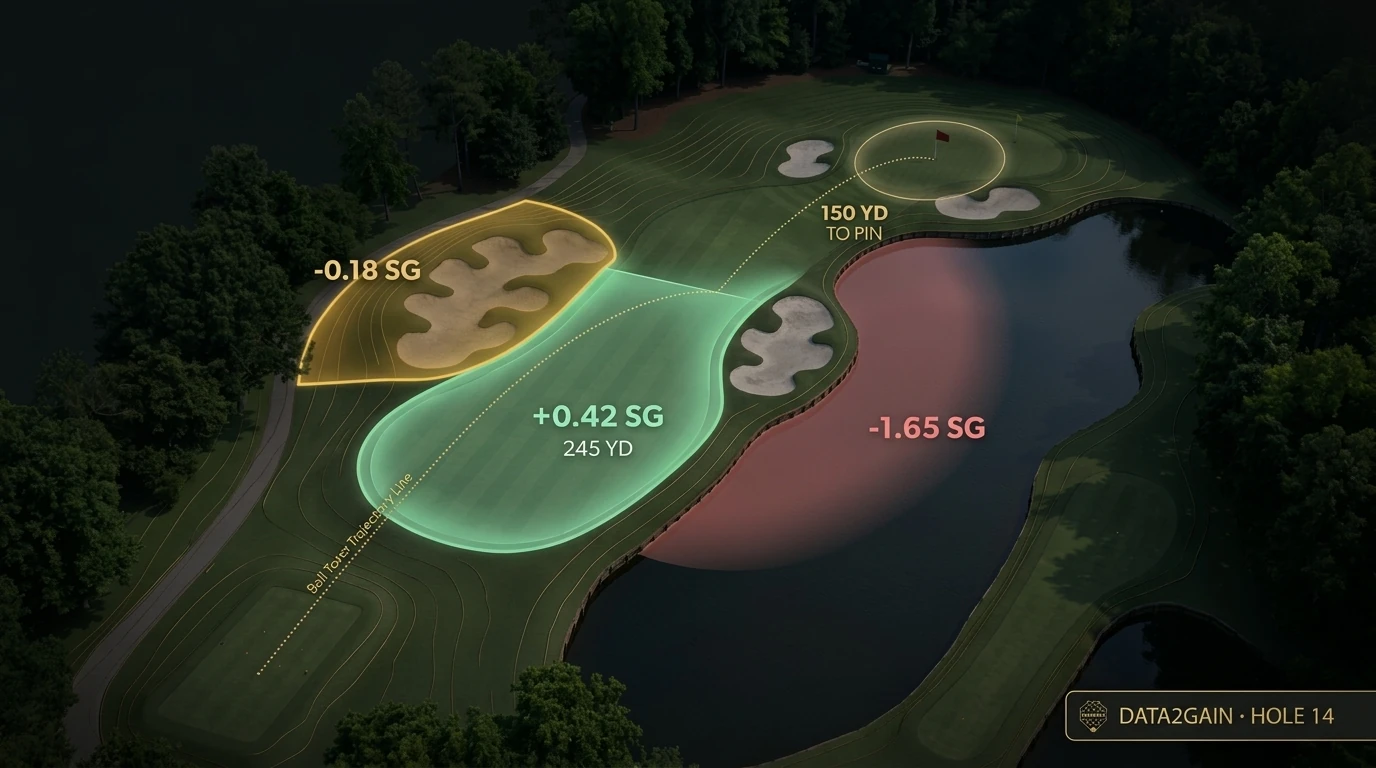
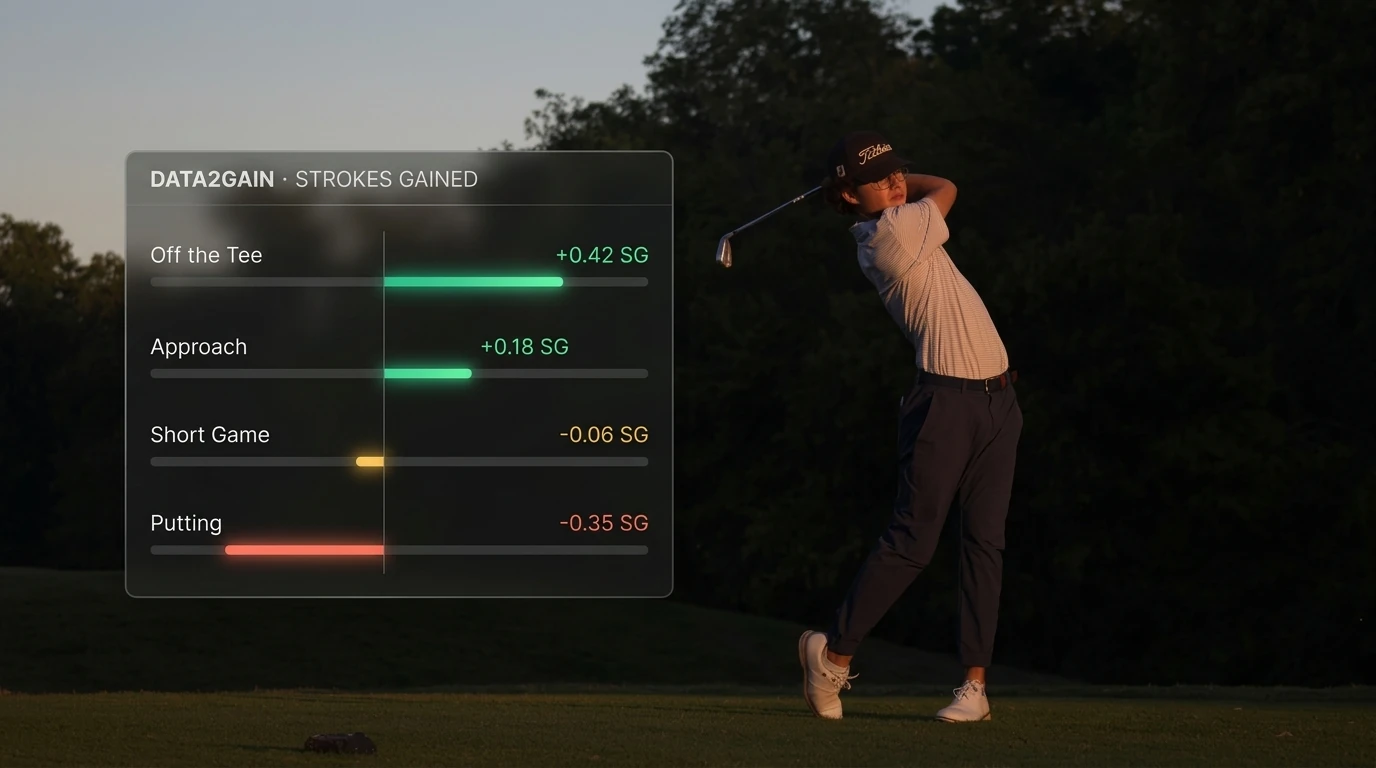
4.5

diff --git a/es/index.html b/es/index.html
@@ -17,7 +17,7 @@
     <div class="hero-actions"><a class="button button-gold hero-cta-main" href="/es/jugadores/" data-track="audience_players">Para jugadores<svg viewBox="0 0 24 24" aria-hidden="true" fill="none"><path d="M5 12h14M13 6l6 6-6 6" stroke="currentColor" stroke-width="1.6" stroke-linecap="round" stroke-linejoin="round"/></svg></a><a class="button button-outline hero-cta-coach" href="/es/coaches/" data-track="audience_coaches">Para coaches (Gratis)<svg viewBox="0 0 24 24" aria-hidden="true" fill="none"><path d="M5 12h14M13 6l6 6-6 6" stroke="currentColor" stroke-width="1.6" stroke-linecap="round" stroke-linejoin="round"/></svg></a></div>
     <div class="platform-strip" aria-label="Plataformas disponibles"><span class="platform-caption">Disponible en:</span><div class="platform-badges"><a class="platform-badge" href="https://app.data2gain.com/" data-track="store_apple" aria-label="Apple App Store"><svg class="platform-icon" viewBox="0 0 24 24" aria-hidden="true" fill="currentColor"><path d="M18.71 19.5c-.83 1.24-1.71 2.45-3.05 2.47-1.34.03-1.77-.79-3.29-.79-1.53 0-2 .77-3.27.82-1.31.05-2.3-1.32-3.14-2.53C4.25 17 2.94 12.45 4.7 9.39c.87-1.52 2.43-2.48 4.12-2.51 1.28-.02 2.5.87 3.29.87.78 0 2.26-1.07 3.81-.91.65.03 2.47.26 3.64 1.98-.09.06-2.17 1.28-2.15 3.81.03 3.02 2.65 4.03 2.68 4.04-.03.07-.42 1.44-1.38 2.83M15.97 6.37c.62-.75 1.04-1.8 0.92-2.85-.9.04-1.99.6-2.64 1.35-.57.65-1.06 1.7-0.93 2.73 1 .08 2.03-.48 2.65-1.23z"/></svg><span>App Store</span></a><a class="platform-badge" href="https://app.data2gain.com/" data-track="store_android" aria-label="Google Play"><svg class="platform-icon" viewBox="0 0 24 24" aria-hidden="true" fill="currentColor"><path d="M3.609 1.814L13.792 12 3.61 22.186a2.38 2.38 0 0 1-.22-.395c-.244-.59-.39-1.312-.39-2.19V4.4c0-.877.146-1.6.39-2.19.064-.15.138-.284.22-.396zm1.424-1.05a2.53 2.53 0 0 1 1.488.293l10.87 6.208-2.894 2.893L5.033.764zm0 22.472l9.464-9.464 2.894 2.893-10.87 6.208a2.53 2.53 0 0 1-1.488.293zm11.758-7.398l3.414-1.95a1.69 1.69 0 0 0 0-2.936l-3.414-1.95-2.227 2.227 2.227 2.227z"/></svg><span>Google Play</span></a><a class="platform-badge" href="https://app.data2gain.com/" data-track="store_webapp" aria-label="Web App"><svg class="platform-icon" viewBox="0 0 24 24" aria-hidden="true" fill="none" stroke="currentColor" stroke-width="1.8"><rect x="3" y="4" width="18" height="16" rx="3"/><path d="M3 9h18M8 6.5h.01M11 6.5h.01M14 6.5h.01"/></svg><span>Web App</span></a></div></div>
     <p class="hero-footnote">Analítica avanzada Strokes Gained · 8,95 €/mes para jugadores · 100% Gratis para coaches</p>
-    </div><div class="hero-visual hero-strokesaver-stage"><img class="hero-photo" src="/assets/editorial/strokesaver-22c.webp" srcset="/assets/editorial/strokesaver-22c-800.webp 800w, /assets/editorial/strokesaver-22c.webp 1376w" sizes="(max-width: 760px) 100vw, 52vw" alt="Strokesaver con zonas de riesgo táctico y valores de Strokes Gained" width="1376" height="768" fetchpriority="high">
+    </div><div class="hero-visual hero-strokesaver-stage"><img class="hero-photo" src="/assets/editorial/strokesaver-22c.webp" srcset="/assets/editorial/strokesaver-22c-800.webp 800w, /assets/editorial/strokesaver-22c.webp 1376w" sizes="(max-width: 760px) 100vw, 52vw" alt="Joven golfista al atardecer con telemetría de Strokes Gained en transparencia" width="1376" height="768" fetchpriority="high">
     <div class="photo-caption"><span>Una nueva forma de ver el golf</span><span>01 — D2G</span></div>
     <a class="hero-insight" href="#producto"><img class="hero-product-peek" src="/assets/screens/es/screen-dispersion-360.webp" width="78" height="86" alt="Vista del análisis de dispersión"><div><span class="eyebrow">Dentro de Data2Gain</span><strong>Encuentra el patrón en tus datos</strong><span class="insight-detail">Dispersión · Strokes Gained · IA</span></div></a>
     </div></div><div class="container hero-baseline"><span>SIENTE EL GOLPE. ENTIENDE EL JUEGO.</span><a href="#como-funciona">Explora Data2Gain<span aria-hidden="true">↓</span></a></div></section><section class="section section-light" id="como-funciona"><div class="container"><div class="section-heading horizontal"><p class="eyebrow">01 / Del dato a la decisión</p><h2>Más claridad.<br>En cada paso.</h2><p>No necesitas saber de estadística.<br>Solo querer entender mejor tu golf.</p></div><div class="steps"><article class="step"><span class="step-number">01</span><h3>Juega. Registra.</h3><p>Registra tu ronda en la app golpe a golpe en pocos minutos.</p></article><article class="step"><span class="step-number">02</span><h3>Encuentra el patrón.</h3><p>Descubre patrones profundos y la causa real detrás de cada fallo.</p></article><article class="step"><span class="step-number">03</span><h3>Decide el siguiente paso.</h3><p>Convierte los datos en un plan de práctica con foco inmediato.</p></article></div></div></section><section class="section section-light audience-section"><div class="container"><div class="section-heading"><div><p class="eyebrow">02 / Una ambición compartida</p><h2>Para quienes juegan.<br>Y para quienes enseñan.</h2></div><p>Dos perfiles, una misma meta:<br>entender el dato para tomar mejores decisiones en el campo.</p></div><div class="audience-grid">

diff --git a/index.html b/index.html
@@ -17,7 +17,7 @@
     <div class="hero-actions"><a class="button button-gold hero-cta-main" href="/es/jugadores/" data-track="audience_players">Para jugadores<svg viewBox="0 0 24 24" aria-hidden="true" fill="none"><path d="M5 12h14M13 6l6 6-6 6" stroke="currentColor" stroke-width="1.6" stroke-linecap="round" stroke-linejoin="round"/></svg></a><a class="button button-outline hero-cta-coach" href="/es/coaches/" data-track="audience_coaches">Para coaches (Gratis)<svg viewBox="0 0 24 24" aria-hidden="true" fill="none"><path d="M5 12h14M13 6l6 6-6 6" stroke="currentColor" stroke-width="1.6" stroke-linecap="round" stroke-linejoin="round"/></svg></a></div>
     <div class="platform-strip" aria-label="Plataformas disponibles"><span class="platform-caption">Disponible en:</span><div class="platform-badges"><a class="platform-badge" href="https://app.data2gain.com/" data-track="store_apple" aria-label="Apple App Store"><svg class="platform-icon" viewBox="0 0 24 24" aria-hidden="true" fill="currentColor"><path d="M18.71 19.5c-.83 1.24-1.71 2.45-3.05 2.47-1.34.03-1.77-.79-3.29-.79-1.53 0-2 .77-3.27.82-1.31.05-2.3-1.32-3.14-2.53C4.25 17 2.94 12.45 4.7 9.39c.87-1.52 2.43-2.48 4.12-2.51 1.28-.02 2.5.87 3.29.87.78 0 2.26-1.07 3.81-.91.65.03 2.47.26 3.64 1.98-.09.06-2.17 1.28-2.15 3.81.03 3.02 2.65 4.03 2.68 4.04-.03.07-.42 1.44-1.38 2.83M15.97 6.37c.62-.75 1.04-1.8 0.92-2.85-.9.04-1.99.6-2.64 1.35-.57.65-1.06 1.7-0.93 2.73 1 .08 2.03-.48 2.65-1.23z"/></svg><span>App Store</span></a><a class="platform-badge" href="https://app.data2gain.com/" data-track="store_android" aria-label="Google Play"><svg class="platform-icon" viewBox="0 0 24 24" aria-hidden="true" fill="currentColor"><path d="M3.609 1.814L13.792 12 3.61 22.186a2.38 2.38 0 0 1-.22-.395c-.244-.59-.39-1.312-.39-2.19V4.4c0-.877.146-1.6.39-2.19.064-.15.138-.284.22-.396zm1.424-1.05a2.53 2.53 0 0 1 1.488.293l10.87 6.208-2.894 2.893L5.033.764zm0 22.472l9.464-9.464 2.894 2.893-10.87 6.208a2.53 2.53 0 0 1-1.488.293zm11.758-7.398l3.414-1.95a1.69 1.69 0 0 0 0-2.936l-3.414-1.95-2.227 2.227 2.227 2.227z"/></svg><span>Google Play</span></a><a class="platform-badge" href="https://app.data2gain.com/" data-track="store_webapp" aria-label="Web App"><svg class="platform-icon" viewBox="0 0 24 24" aria-hidden="true" fill="none" stroke="currentColor" stroke-width="1.8"><rect x="3" y="4" width="18" height="16" rx="3"/><path d="M3 9h18M8 6.5h.01M11 6.5h.01M14 6.5h.01"/></svg><span>Web App</span></a></div></div>
     <p class="hero-footnote">Analítica avanzada Strokes Gained · 8,95 €/mes para jugadores · 100% Gratis para coaches</p>
-    </div><div class="hero-visual hero-strokesaver-stage"><img class="hero-photo" src="/assets/editorial/strokesaver-22c.webp" srcset="/assets/editorial/strokesaver-22c-800.webp 800w, /assets/editorial/strokesaver-22c.webp 1376w" sizes="(max-width: 760px) 100vw, 52vw" alt="Strokesaver con zonas de riesgo táctico y valores de Strokes Gained" width="1376" height="768" fetchpriority="high">
+    </div><div class="hero-visual hero-strokesaver-stage"><img class="hero-photo" src="/assets/editorial/strokesaver-22c.webp" srcset="/assets/editorial/strokesaver-22c-800.webp 800w, /assets/editorial/strokesaver-22c.webp 1376w" sizes="(max-width: 760px) 100vw, 52vw" alt="Joven golfista al atardecer con telemetría de Strokes Gained en transparencia" width="1376" height="768" fetchpriority="high">
     <div class="photo-caption"><span>Una nueva forma de ver el golf</span><span>01 — D2G</span></div>
     <a class="hero-insight" href="#producto"><img class="hero-product-peek" src="/assets/screens/es/screen-dispersion-360.webp" width="78" height="86" alt="Vista del análisis de dispersión"><div><span class="eyebrow">Dentro de Data2Gain</span><strong>Encuentra el patrón en tus datos</strong><span class="insight-detail">Dispersión · Strokes Gained · IA</span></div></a>
     </div></div><div class="container hero-baseline"><span>SIENTE EL GOLPE. ENTIENDE EL JUEGO.</span><a href="#como-funciona">Explora Data2Gain<span aria-hidden="true">↓</span></a></div></section><section class="section section-light" id="como-funciona"><div class="container"><div class="section-heading horizontal"><p class="eyebrow">01 / Del dato a la decisión</p><h2>Más claridad.<br>En cada paso.</h2><p>No necesitas saber de estadística.<br>Solo querer entender mejor tu golf.</p></div><div class="steps"><article class="step"><span class="step-number">01</span><h3>Juega. Registra.</h3><p>Registra tu ronda en la app golpe a golpe en pocos minutos.</p></article><article class="step"><span class="step-number">02</span><h3>Encuentra el patrón.</h3><p>Descubre patrones profundos y la causa real detrás de cada fallo.</p></article><article class="step"><span class="step-number">03</span><h3>Decide el siguiente paso.</h3><p>Convierte los datos en un plan de práctica con foco inmediato.</p></article></div></div></section><section class="section section-light audience-section"><div class="container"><div class="section-heading"><div><p class="eyebrow">02 / Una ambición compartida</p><h2>Para quienes juegan.<br>Y para quienes enseñan.</h2></div><p>Dos perfiles, una misma meta:<br>entender el dato para tomar mejores decisiones en el campo.</p></div><div class="audience-grid">

diff --git a/en/index.html b/en/index.html
@@ -17,7 +17,7 @@
     <div class="hero-actions"><a class="button button-gold hero-cta-main" href="/en/players/" data-track="audience_players">For players<svg viewBox="0 0 24 24" aria-hidden="true" fill="none"><path d="M5 12h14M13 6l6 6-6 6" stroke="currentColor" stroke-width="1.6" stroke-linecap="round" stroke-linejoin="round"/></svg></a><a class="button button-outline hero-cta-coach" href="/en/coaches/" data-track="audience_coaches">For coaches (Free)<svg viewBox="0 0 24 24" aria-hidden="true" fill="none"><path d="M5 12h14M13 6l6 6-6 6" stroke="currentColor" stroke-width="1.6" stroke-linecap="round" stroke-linejoin="round"/></svg></a></div>
     <div class="platform-strip" aria-label="Available platforms"><span class="platform-caption">Available on:</span><div class="platform-badges"><a class="platform-badge" href="https://app.data2gain.com/" data-track="store_apple" aria-label="Apple App Store"><svg class="platform-icon" viewBox="0 0 24 24" aria-hidden="true" fill="currentColor"><path d="M18.71 19.5c-.83 1.24-1.71 2.45-3.05 2.47-1.34.03-1.77-.79-3.29-.79-1.53 0-2 .77-3.27.82-1.31.05-2.3-1.32-3.14-2.53C4.25 17 2.94 12.45 4.7 9.39c.87-1.52 2.43-2.48 4.12-2.51 1.28-.02 2.5.87 3.29.87.78 0 2.26-1.07 3.81-.91.65.03 2.47.26 3.64 1.98-.09.06-2.17 1.28-2.15 3.81.03 3.02 2.65 4.03 2.68 4.04-.03.07-.42 1.44-1.38 2.83M15.97 6.37c.62-.75 1.04-1.8 0.92-2.85-.9.04-1.99.6-2.64 1.35-.57.65-1.06 1.7-0.93 2.73 1 .08 2.03-.48 2.65-1.23z"/></svg><span>App Store</span></a><a class="platform-badge" href="https://app.data2gain.com/" data-track="store_android" aria-label="Google Play"><svg class="platform-icon" viewBox="0 0 24 24" aria-hidden="true" fill="currentColor"><path d="M3.609 1.814L13.792 12 3.61 22.186a2.38 2.38 0 0 1-.22-.395c-.244-.59-.39-1.312-.39-2.19V4.4c0-.877.146-1.6.39-2.19.064-.15.138-.284.22-.396zm1.424-1.05a2.53 2.53 0 0 1 1.488.293l10.87 6.208-2.894 2.893L5.033.764zm0 22.472l9.464-9.464 2.894 2.893-10.87 6.208a2.53 2.53 0 0 1-1.488.293zm11.758-7.398l3.414-1.95a1.69 1.69 0 0 0 0-2.936l-3.414-1.95-2.227 2.227 2.227 2.227z"/></svg><span>Google Play</span></a><a class="platform-badge" href="https://app.data2gain.com/" data-track="store_webapp" aria-label="Web App"><svg class="platform-icon" viewBox="0 0 24 24" aria-hidden="true" fill="none" stroke="currentColor" stroke-width="1.8"><rect x="3" y="4" width="18" height="16" rx="3"/><path d="M3 9h18M8 6.5h.01M11 6.5h.01M14 6.5h.01"/></svg><span>Web App</span></a></div></div>
     <p class="hero-footnote">Advanced Strokes Gained analytics · €8.95/month for players · 100% Free for coaches</p>
-    </div><div class="hero-visual hero-strokesaver-stage"><img class="hero-photo" src="/assets/editorial/strokesaver-22c.webp" srcset="/assets/editorial/strokesaver-22c-800.webp 800w, /assets/editorial/strokesaver-22c.webp 1376w" sizes="(max-width: 760px) 100vw, 52vw" alt="Strokesaver with tactical risk zones and Strokes Gained values" width="1376" height="768" fetchpriority="high">
+    </div><div class="hero-visual hero-strokesaver-stage"><img class="hero-photo" src="/assets/editorial/strokesaver-22c.webp" srcset="/assets/editorial/strokesaver-22c-800.webp 800w, /assets/editorial/strokesaver-22c.webp 1376w" sizes="(max-width: 760px) 100vw, 52vw" alt="Young golfer at golden hour with translucent Strokes Gained telemetry overlay" width="1376" height="768" fetchpriority="high">
     <div class="photo-caption"><span>A new perspective on golf</span><span>01 — D2G</span></div>
     <a class="hero-insight" href="#producto"><img class="hero-product-peek" src="/assets/screens/en/screen-dispersion-360.webp" width="78" height="86" alt="Dispersion analysis preview"><div><span class="eyebrow">Inside Data2Gain</span><strong>Find the pattern in your data</strong><span class="insight-detail">Dispersion · Strokes Gained · AI</span></div></a>
     </div></div><div class="container hero-baseline"><span>FEEL THE SHOT. UNDERSTAND THE GAME.</span><a href="#como-funciona">Explore Data2Gain<span aria-hidden="true">↓</span></a></div></section><section class="section section-light" id="como-funciona"><div class="container"><div class="section-heading horizontal"><p class="eyebrow">01 / From data to decisions</p><h2>More clarity.<br>At every step.</h2><p>You do not need to be a statistician.<br>Just curious about your golf.</p></div><div class="steps"><article class="step"><span class="step-number">01</span><h3>Play. Record.</h3><p>Record your round shot by shot in just a few minutes.</p></article><article class="step"><span class="step-number">02</span><h3>Find the pattern.</h3><p>Uncover deep patterns and the true cause behind every miss.</p></article><article class="step"><span class="step-number">03</span><h3>Choose your next step.</h3><p>Turn your data into a focused practice routine right away.</p></article></div></div></section><section class="section section-light audience-section"><div class="container"><div class="section-heading"><div><p class="eyebrow">02 / One shared ambition</p><h2>For those who play.<br>And those who teach.</h2></div><p>Two perspectives, one shared goal:<br>using data to make better decisions on the course.</p></div><div class="audience-grid">

diff --git a/css/premium.css b/css/premium.css
@@ -53,6 +53,7 @@
 .hero-strokesaver-stage .hero-photo{object-fit:cover;object-position:center;transition:transform .6s cubic-bezier(0.16,1,0.3,1)}
 .hero-strokesaver-stage:hover .hero-photo{transform:scale(1.02)}
 .hero-strokesaver-stage:after{background:radial-gradient(circle at center,transparent 50%,rgba(6,9,7,0.5) 100%),linear-gradient(180deg,rgba(6,9,7,0.1) 0%,transparent 40%,rgba(6,9,7,0.75) 100%)}
+.hero-strokesaver-stage .hero-insight{display:none}
 .hero-actions .hero-cta-main{min-width:180px}
 .hero-actions .hero-cta-coach{background:rgba(22,31,24,.6);border:1px solid rgba(197,160,89,.35);color:#eeeee5}
 .hero-actions .hero-cta-coach:hover{background:#253327;border-color:var(--gold);color:#ffffff}

diff --git a/scripts/update_strokesaver.py b/scripts/update_strokesaver.py
@@ -3,7 +3,7 @@
 from pathlib import Path
 from PIL import Image, ImageOps
 
-SOURCE_IMAGE = Path(r"C:\Users\Pit\.gemini\antigravity\brain\f3e34cdc-f247-4556-9bd7-43ddf6d825e4\d2g_brand_strokesaver_1788889086513.jpg")
+SOURCE_IMAGE = Path(r"C:\Users\Pit\.gemini\antigravity\brain\f3e34cdc-f247-4556-9bd7-43ddf6d825e4\golfer_sg_clean_1788890112729.jpg")
 TARGET_DIR = Path(__file__).resolve().parents[1] / "assets" / "editorial"
 
 def main():
